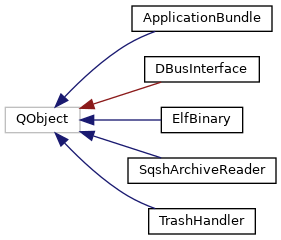
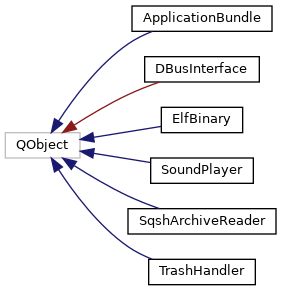
deploy: e1a4afd1eb60dbc64f07d55bf0ba9c38c1e31a32

Changed region(s): [[0.0, 0.0, 0.9964, 0.9917], [0.3416, 0.5833, 0.4555, 0.6417], [0.3986, 0.3792, 0.484, 0.4083]]

diff --git a/classSoundPlayer.html b/classSoundPlayer.html
@@ -5,7 +5,7 @@
 <meta http-equiv="X-UA-Compatible" content="IE=9"/>
 <meta name="generator" content="Doxygen 1.9.1"/>
 <meta name="viewport" content="width=device-width, initial-scale=1"/>
-<title>Filer: Class Index</title>
+<title>Filer: SoundPlayer Class Reference</title>
 <link href="tabs.css" rel="stylesheet" type="text/css"/>
 <script type="text/javascript" src="jquery.js"></script>
 <script type="text/javascript" src="dynsections.js"></script>
@@ -45,7 +45,6 @@ $(function() {
 });
 /* @license-end */</script>
 <div id="main-nav"></div>
-</div><!-- top -->
 <!-- window showing the filter options -->
 <div id="MSearchSelectWindow"
      onmouseover="return searchBox.OnSearchSelectShow()"
@@ -60,38 +59,51 @@ $(function() {
 </iframe>
 </div>
 
+</div><!-- top -->
 <div class="header">
+  <div class="summary">
+<a href="#pub-methods">Public Member Functions</a> &#124;
+<a href="#pub-static-methods">Static Public Member Functions</a> &#124;
+<a href="classSoundPlayer-members.html">List of all members</a>  </div>
   <div class="headertitle">
-<div class="title">Class Index</div>  </div>
+<div class="title">SoundPlayer Class Reference</div>  </div>
 </div><!--header-->
 <div class="contents">
-<div class="qindex"><a class="qindex" href="#letter_A">A</a>&#160;|&#160;<a class="qindex" href="#letter_C">C</a>&#160;|&#160;<a class="qindex" href="#letter_D">D</a>&#160;|&#160;<a class="qindex" href="#letter_E">E</a>&#160;|&#160;<a class="qindex" href="#letter_F">F</a>&#160;|&#160;<a class="qindex" href="#letter_L">L</a>&#160;|&#160;<a class="qindex" href="#letter_S">S</a>&#160;|&#160;<a class="qindex" href="#letter_T">T</a></div>
-<div class="classindex">
-<dl class="classindex even">
-<dt class="alphachar"><a name="letter_A">A</a></dt>
-<dd><a class="el" href="classApplicationBundle.html">ApplicationBundle</a></dd></dl>
-<dl class="classindex odd">
-<dt class="alphachar"><a name="letter_C">C</a></dt>
-<dd><a class="el" href="classCombinedIconCreator.html">CombinedIconCreator</a></dd><dd><a class="el" href="classCustomFileIconProvider.html">CustomFileIconProvider</a></dd><dd><a class="el" href="classCustomFileSystemModel.html">CustomFileSystemModel</a></dd><dd><a class="el" href="classCustomItemDelegate.html">CustomItemDelegate</a></dd><dd><a class="el" href="classCustomListView.html">CustomListView</a></dd></dl>
-<dl class="classindex even">
-<dt class="alphachar"><a name="letter_D">D</a></dt>
-<dd><a class="el" href="classDBusInterface.html">DBusInterface</a></dd><dd><a class="el" href="classDesktopFile.html">DesktopFile</a></dd></dl>
-<dl class="classindex odd">
-<dt class="alphachar"><a name="letter_E">E</a></dt>
-<dd><a class="el" href="classElfBinary.html">ElfBinary</a></dd><dd><a class="el" href="classElfSizeCalculator.html">ElfSizeCalculator</a></dd><dd><a class="el" href="classExtendedAttributes.html">ExtendedAttributes</a></dd></dl>
-<dl class="classindex even">
-<dt class="alphachar"><a name="letter_F">F</a></dt>
-<dd><a class="el" href="classFileManager.html">FileManager</a></dd><dd><a class="el" href="classFileManagerMainWindow.html">FileManagerMainWindow</a></dd></dl>
-<dl class="classindex odd">
-<dt class="alphachar"><a name="letter_L">L</a></dt>
-<dd><a class="el" href="classLaunchDB.html">LaunchDB</a></dd></dl>
-<dl class="classindex even">
-<dt class="alphachar"><a name="letter_S">S</a></dt>
-<dd><a class="el" href="classSoundPlayer.html">SoundPlayer</a></dd><dd><a class="el" href="classSqshArchiveReader.html">SqshArchiveReader</a></dd></dl>
-<dl class="classindex odd">
-<dt class="alphachar"><a name="letter_T">T</a></dt>
-<dd><a class="el" href="classTrashHandler.html">TrashHandler</a></dd></dl>
-</div>
+<div class="dynheader">
+Inheritance diagram for SoundPlayer:</div>
+<div class="dyncontent">
+<div class="center"><img src="classSoundPlayer__inherit__graph.png" border="0" usemap="#aSoundPlayer_inherit__map" alt="Inheritance graph"/></div>
+<map name="aSoundPlayer_inherit__map" id="aSoundPlayer_inherit__map">
+<area shape="rect" title=" " alt="" coords="5,80,108,107"/>
+<area shape="rect" title=" " alt="" coords="19,5,94,32"/>
+</map>
+<center><span class="legend">[<a href="graph_legend.html">legend</a>]</span></center></div>
+<div class="dynheader">
+Collaboration diagram for SoundPlayer:</div>
+<div class="dyncontent">
+<div class="center"><img src="classSoundPlayer__coll__graph.png" border="0" usemap="#aSoundPlayer_coll__map" alt="Collaboration graph"/></div>
+<map name="aSoundPlayer_coll__map" id="aSoundPlayer_coll__map">
+<area shape="rect" title=" " alt="" coords="5,80,108,107"/>
+<area shape="rect" title=" " alt="" coords="19,5,94,32"/>
+</map>
+<center><span class="legend">[<a href="graph_legend.html">legend</a>]</span></center></div>
+<table class="memberdecls">
+<tr class="heading"><td colspan="2"><h2 class="groupheader"><a name="pub-methods"></a>
+Public Member Functions</h2></td></tr>
+<tr class="memitem:a590cf747854ce61a26d0903256ee9bb9"><td class="memItemLeft" align="right" valign="top"><a id="a590cf747854ce61a26d0903256ee9bb9"></a>
+&#160;</td><td class="memItemRight" valign="bottom"><b>SoundPlayer</b> (QObject *parent=nullptr)</td></tr>
+<tr class="separator:a590cf747854ce61a26d0903256ee9bb9"><td class="memSeparator" colspan="2">&#160;</td></tr>
+</table><table class="memberdecls">
+<tr class="heading"><td colspan="2"><h2 class="groupheader"><a name="pub-static-methods"></a>
+Static Public Member Functions</h2></td></tr>
+<tr class="memitem:a4993ff7a7b3c26f65edc117e5f306f32"><td class="memItemLeft" align="right" valign="top"><a id="a4993ff7a7b3c26f65edc117e5f306f32"></a>
+static void&#160;</td><td class="memItemRight" valign="bottom"><b>playSound</b> (const QString &amp;filename)</td></tr>
+<tr class="separator:a4993ff7a7b3c26f65edc117e5f306f32"><td class="memSeparator" colspan="2">&#160;</td></tr>
+</table>
+<hr/>The documentation for this class was generated from the following files:<ul>
+<li><a class="el" href="SoundPlayer_8h_source.html">SoundPlayer.h</a></li>
+<li>SoundPlayer.cpp</li>
+</ul>
 </div><!-- contents -->
 <!-- start footer part -->
 <hr class="footer"/><address class="footer"><small>

diff --git a/SoundPlayer_8h_source.html b/SoundPlayer_8h_source.html
@@ -1,0 +1,95 @@
+<!DOCTYPE html PUBLIC "-//W3C//DTD XHTML 1.0 Transitional//EN" "https://www.w3.org/TR/xhtml1/DTD/xhtml1-transitional.dtd">
+<html xmlns="http://www.w3.org/1999/xhtml">
+<head>
+<meta http-equiv="Content-Type" content="text/xhtml;charset=UTF-8"/>
+<meta http-equiv="X-UA-Compatible" content="IE=9"/>
+<meta name="generator" content="Doxygen 1.9.1"/>
+<meta name="viewport" content="width=device-width, initial-scale=1"/>
+<title>Filer: SoundPlayer.h Source File</title>
+<link href="tabs.css" rel="stylesheet" type="text/css"/>
+<script type="text/javascript" src="jquery.js"></script>
+<script type="text/javascript" src="dynsections.js"></script>
+<link href="search/search.css" rel="stylesheet" type="text/css"/>
+<script type="text/javascript" src="search/searchdata.js"></script>
+<script type="text/javascript" src="search/search.js"></script>
+<link href="doxygen.css" rel="stylesheet" type="text/css" />
+</head>
+<body>
+<div id="top"><!-- do not remove this div, it is closed by doxygen! -->
+<div id="titlearea">
+<table cellspacing="0" cellpadding="0">
+ <tbody>
+ <tr style="height: 56px;">
+  <td id="projectalign" style="padding-left: 0.5em;">
+   <div id="projectname">Filer
+   </div>
+  </td>
+ </tr>
+ </tbody>
+</table>
+</div>
+<!-- end header part -->
+<!-- Generated by Doxygen 1.9.1 -->
+<script type="text/javascript">
+/* @license magnet:?xt=urn:btih:cf05388f2679ee054f2beb29a391d25f4e673ac3&amp;dn=gpl-2.0.txt GPL-v2 */
+var searchBox = new SearchBox("searchBox", "search",false,'Search','.html');
+/* @license-end */
+</script>
+<script type="text/javascript" src="menudata.js"></script>
+<script type="text/javascript" src="menu.js"></script>
+<script type="text/javascript">
+/* @license magnet:?xt=urn:btih:cf05388f2679ee054f2beb29a391d25f4e673ac3&amp;dn=gpl-2.0.txt GPL-v2 */
+$(function() {
+  initMenu('',true,false,'search.php','Search');
+  $(document).ready(function() { init_search(); });
+});
+/* @license-end */</script>
+<div id="main-nav"></div>
+</div><!-- top -->
+<!-- window showing the filter options -->
+<div id="MSearchSelectWindow"
+     onmouseover="return searchBox.OnSearchSelectShow()"
+     onmouseout="return searchBox.OnSearchSelectHide()"
+     onkeydown="return searchBox.OnSearchSelectKey(event)">
+</div>
+
+<!-- iframe showing the search results (closed by default) -->
+<div id="MSearchResultsWindow">
+<iframe src="javascript:void(0)" frameborder="0" 
+        name="MSearchResults" id="MSearchResults">
+</iframe>
+</div>
+
+<div class="header">
+  <div class="headertitle">
+<div class="title">SoundPlayer.h</div>  </div>
+</div><!--header-->
+<div class="contents">
+<div class="fragment"><div class="line"><a name="l00001"></a><span class="lineno">    1</span>&#160;<span class="preprocessor">#ifndef SOUNDPLAYER_H</span></div>
+<div class="line"><a name="l00002"></a><span class="lineno">    2</span>&#160;<span class="preprocessor">#define SOUNDPLAYER_H</span></div>
+<div class="line"><a name="l00003"></a><span class="lineno">    3</span>&#160; </div>
+<div class="line"><a name="l00004"></a><span class="lineno">    4</span>&#160;<span class="preprocessor">#include &lt;QObject&gt;</span></div>
+<div class="line"><a name="l00005"></a><span class="lineno">    5</span>&#160;<span class="preprocessor">#include &lt;QMediaPlayer&gt;</span></div>
+<div class="line"><a name="l00006"></a><span class="lineno">    6</span>&#160; </div>
+<div class="line"><a name="l00007"></a><span class="lineno"><a class="line" href="classSoundPlayer.html">    7</a></span>&#160;<span class="keyword">class </span><a class="code" href="classSoundPlayer.html">SoundPlayer</a> : <span class="keyword">public</span> QObject</div>
+<div class="line"><a name="l00008"></a><span class="lineno">    8</span>&#160;{</div>
+<div class="line"><a name="l00009"></a><span class="lineno">    9</span>&#160;Q_OBJECT</div>
+<div class="line"><a name="l00010"></a><span class="lineno">   10</span>&#160; </div>
+<div class="line"><a name="l00011"></a><span class="lineno">   11</span>&#160;<span class="keyword">public</span>:</div>
+<div class="line"><a name="l00012"></a><span class="lineno">   12</span>&#160;    <span class="keyword">explicit</span> <a class="code" href="classSoundPlayer.html">SoundPlayer</a>(QObject *parent = <span class="keyword">nullptr</span>);</div>
+<div class="line"><a name="l00013"></a><span class="lineno">   13</span>&#160; </div>
+<div class="line"><a name="l00014"></a><span class="lineno">   14</span>&#160;    <span class="comment">// Note: This can be called without needing an instance of SoundPlayer</span></div>
+<div class="line"><a name="l00015"></a><span class="lineno">   15</span>&#160;    <span class="keyword">static</span> <span class="keywordtype">void</span> playSound(<span class="keyword">const</span> QString &amp;filename);</div>
+<div class="line"><a name="l00016"></a><span class="lineno">   16</span>&#160; </div>
+<div class="line"><a name="l00017"></a><span class="lineno">   17</span>&#160; </div>
+<div class="line"><a name="l00018"></a><span class="lineno">   18</span>&#160;};</div>
+<div class="line"><a name="l00019"></a><span class="lineno">   19</span>&#160; </div>
+<div class="line"><a name="l00020"></a><span class="lineno">   20</span>&#160;<span class="preprocessor">#endif </span><span class="comment">// SOUNDPLAYER_H</span></div>
+<div class="ttc" id="aclassSoundPlayer_html"><div class="ttname"><a href="classSoundPlayer.html">SoundPlayer</a></div><div class="ttdef"><b>Definition:</b> SoundPlayer.h:8</div></div>
+</div><!-- fragment --></div><!-- contents -->
+<!-- start footer part -->
+<hr class="footer"/><address class="footer"><small>
+Generated by&#160;<a href="https://www.doxygen.org/index.html"><img class="footer" src="doxygen.svg" width="104" height="31" alt="doxygen"/></a> 1.9.1
+</small></address>
+</body>
+</html>

diff --git a/classSoundPlayer-members.html b/classSoundPlayer-members.html
@@ -5,7 +5,7 @@
 <meta http-equiv="X-UA-Compatible" content="IE=9"/>
 <meta name="generator" content="Doxygen 1.9.1"/>
 <meta name="viewport" content="width=device-width, initial-scale=1"/>
-<title>Filer: Class Index</title>
+<title>Filer: Member List</title>
 <link href="tabs.css" rel="stylesheet" type="text/css"/>
 <script type="text/javascript" src="jquery.js"></script>
 <script type="text/javascript" src="dynsections.js"></script>
@@ -45,7 +45,6 @@ $(function() {
 });
 /* @license-end */</script>
 <div id="main-nav"></div>
-</div><!-- top -->
 <!-- window showing the filter options -->
 <div id="MSearchSelectWindow"
      onmouseover="return searchBox.OnSearchSelectShow()"
@@ -60,39 +59,18 @@ $(function() {
 </iframe>
 </div>
 
+</div><!-- top -->
 <div class="header">
   <div class="headertitle">
-<div class="title">Class Index</div>  </div>
+<div class="title">SoundPlayer Member List</div>  </div>
 </div><!--header-->
 <div class="contents">
-<div class="qindex"><a class="qindex" href="#letter_A">A</a>&#160;|&#160;<a class="qindex" href="#letter_C">C</a>&#160;|&#160;<a class="qindex" href="#letter_D">D</a>&#160;|&#160;<a class="qindex" href="#letter_E">E</a>&#160;|&#160;<a class="qindex" href="#letter_F">F</a>&#160;|&#160;<a class="qindex" href="#letter_L">L</a>&#160;|&#160;<a class="qindex" href="#letter_S">S</a>&#160;|&#160;<a class="qindex" href="#letter_T">T</a></div>
-<div class="classindex">
-<dl class="classindex even">
-<dt class="alphachar"><a name="letter_A">A</a></dt>
-<dd><a class="el" href="classApplicationBundle.html">ApplicationBundle</a></dd></dl>
-<dl class="classindex odd">
-<dt class="alphachar"><a name="letter_C">C</a></dt>
-<dd><a class="el" href="classCombinedIconCreator.html">CombinedIconCreator</a></dd><dd><a class="el" href="classCustomFileIconProvider.html">CustomFileIconProvider</a></dd><dd><a class="el" href="classCustomFileSystemModel.html">CustomFileSystemModel</a></dd><dd><a class="el" href="classCustomItemDelegate.html">CustomItemDelegate</a></dd><dd><a class="el" href="classCustomListView.html">CustomListView</a></dd></dl>
-<dl class="classindex even">
-<dt class="alphachar"><a name="letter_D">D</a></dt>
-<dd><a class="el" href="classDBusInterface.html">DBusInterface</a></dd><dd><a class="el" href="classDesktopFile.html">DesktopFile</a></dd></dl>
-<dl class="classindex odd">
-<dt class="alphachar"><a name="letter_E">E</a></dt>
-<dd><a class="el" href="classElfBinary.html">ElfBinary</a></dd><dd><a class="el" href="classElfSizeCalculator.html">ElfSizeCalculator</a></dd><dd><a class="el" href="classExtendedAttributes.html">ExtendedAttributes</a></dd></dl>
-<dl class="classindex even">
-<dt class="alphachar"><a name="letter_F">F</a></dt>
-<dd><a class="el" href="classFileManager.html">FileManager</a></dd><dd><a class="el" href="classFileManagerMainWindow.html">FileManagerMainWindow</a></dd></dl>
-<dl class="classindex odd">
-<dt class="alphachar"><a name="letter_L">L</a></dt>
-<dd><a class="el" href="classLaunchDB.html">LaunchDB</a></dd></dl>
-<dl class="classindex even">
-<dt class="alphachar"><a name="letter_S">S</a></dt>
-<dd><a class="el" href="classSoundPlayer.html">SoundPlayer</a></dd><dd><a class="el" href="classSqshArchiveReader.html">SqshArchiveReader</a></dd></dl>
-<dl class="classindex odd">
-<dt class="alphachar"><a name="letter_T">T</a></dt>
-<dd><a class="el" href="classTrashHandler.html">TrashHandler</a></dd></dl>
-</div>
-</div><!-- contents -->
+
+<p>This is the complete list of members for <a class="el" href="classSoundPlayer.html">SoundPlayer</a>, including all inherited members.</p>
+<table class="directory">
+  <tr bgcolor="#f0f0f0" class="even"><td class="entry"><b>playSound</b>(const QString &amp;filename) (defined in <a class="el" href="classSoundPlayer.html">SoundPlayer</a>)</td><td class="entry"><a class="el" href="classSoundPlayer.html">SoundPlayer</a></td><td class="entry"><span class="mlabel">static</span></td></tr>
+  <tr bgcolor="#f0f0f0"><td class="entry"><b>SoundPlayer</b>(QObject *parent=nullptr) (defined in <a class="el" href="classSoundPlayer.html">SoundPlayer</a>)</td><td class="entry"><a class="el" href="classSoundPlayer.html">SoundPlayer</a></td><td class="entry"><span class="mlabel">explicit</span></td></tr>
+</table></div><!-- contents -->
 <!-- start footer part -->
 <hr class="footer"/><address class="footer"><small>
 Generated by&#160;<a href="https://www.doxygen.org/index.html"><img class="footer" src="doxygen.svg" width="104" height="31" alt="doxygen"/></a> 1.9.1

diff --git a/hierarchy.html b/hierarchy.html
@@ -88,10 +88,11 @@ This inheritance list is sorted roughly, but not completely, alphabetically:</di
 <tr id="row_10_0_" class="even"><td class="entry"><span style="width:32px;display:inline-block;">&#160;</span><span class="icona"><span class="icon">C</span></span><a class="el" href="classApplicationBundle.html" target="_self">ApplicationBundle</a></td><td class="desc"></td></tr>
 <tr id="row_10_1_"><td class="entry"><span style="width:32px;display:inline-block;">&#160;</span><span class="icona"><span class="icon">C</span></span><a class="el" href="classDBusInterface.html" target="_self">DBusInterface</a></td><td class="desc"></td></tr>
 <tr id="row_10_2_" class="even"><td class="entry"><span style="width:32px;display:inline-block;">&#160;</span><span class="icona"><span class="icon">C</span></span><a class="el" href="classElfBinary.html" target="_self">ElfBinary</a></td><td class="desc">Functionality to read information from ELF binary files </td></tr>
-<tr id="row_10_3_"><td class="entry"><span style="width:32px;display:inline-block;">&#160;</span><span class="icona"><span class="icon">C</span></span><a class="el" href="classSqshArchiveReader.html" target="_self">SqshArchiveReader</a></td><td class="desc">Functionality to read files from a SquashFS archive </td></tr>
-<tr id="row_10_4_" class="even"><td class="entry"><span style="width:32px;display:inline-block;">&#160;</span><span class="icona"><span class="icon">C</span></span><a class="el" href="classTrashHandler.html" target="_self">TrashHandler</a></td><td class="desc"></td></tr>
-<tr id="row_11_"><td class="entry"><span style="width:0px;display:inline-block;">&#160;</span><span id="arr_11_" class="arrow" onclick="toggleFolder('11_')">&#9660;</span><span class="icona"><span class="icon">C</span></span><b>QStyledItemDelegate</b></td><td class="desc"></td></tr>
-<tr id="row_11_0_" class="even"><td class="entry"><span style="width:32px;display:inline-block;">&#160;</span><span class="icona"><span class="icon">C</span></span><a class="el" href="classCustomItemDelegate.html" target="_self">CustomItemDelegate</a></td><td class="desc"></td></tr>
+<tr id="row_10_3_"><td class="entry"><span style="width:32px;display:inline-block;">&#160;</span><span class="icona"><span class="icon">C</span></span><a class="el" href="classSoundPlayer.html" target="_self">SoundPlayer</a></td><td class="desc"></td></tr>
+<tr id="row_10_4_" class="even"><td class="entry"><span style="width:32px;display:inline-block;">&#160;</span><span class="icona"><span class="icon">C</span></span><a class="el" href="classSqshArchiveReader.html" target="_self">SqshArchiveReader</a></td><td class="desc">Functionality to read files from a SquashFS archive </td></tr>
+<tr id="row_10_5_"><td class="entry"><span style="width:32px;display:inline-block;">&#160;</span><span class="icona"><span class="icon">C</span></span><a class="el" href="classTrashHandler.html" target="_self">TrashHandler</a></td><td class="desc"></td></tr>
+<tr id="row_11_" class="even"><td class="entry"><span style="width:0px;display:inline-block;">&#160;</span><span id="arr_11_" class="arrow" onclick="toggleFolder('11_')">&#9660;</span><span class="icona"><span class="icon">C</span></span><b>QStyledItemDelegate</b></td><td class="desc"></td></tr>
+<tr id="row_11_0_"><td class="entry"><span style="width:32px;display:inline-block;">&#160;</span><span class="icona"><span class="icon">C</span></span><a class="el" href="classCustomItemDelegate.html" target="_self">CustomItemDelegate</a></td><td class="desc"></td></tr>
 </table>
 </div><!-- directory -->
 </div><!-- contents -->

diff --git a/TrashHandler_8h_source.html b/TrashHandler_8h_source.html
@@ -82,7 +82,7 @@ $(function() {
 <div class="line"><a name="l00015"></a><span class="lineno">   15</span>&#160;    <a class="code" href="classTrashHandler.html">TrashHandler</a>(QWidget *parent = <span class="keyword">nullptr</span>);</div>
 <div class="line"><a name="l00016"></a><span class="lineno">   16</span>&#160; </div>
 <div class="line"><a name="l00017"></a><span class="lineno">   17</span>&#160;    <span class="comment">// Move a file/directory to the &quot;Trash&quot; (Virtual Trash)</span></div>
-<div class="line"><a name="l00018"></a><span class="lineno">   18</span>&#160;    <span class="keywordtype">bool</span> moveToTrash(<span class="keyword">const</span> QString&amp; path);</div>
+<div class="line"><a name="l00018"></a><span class="lineno">   18</span>&#160;    <span class="keywordtype">void</span> moveToTrash(<span class="keyword">const</span> QStringList&amp; paths);</div>
 <div class="line"><a name="l00019"></a><span class="lineno">   19</span>&#160; </div>
 <div class="line"><a name="l00020"></a><span class="lineno">   20</span>&#160;    <span class="comment">// Empty the &quot;Trash&quot; (Delete all files and directories in the Virtual Trash)</span></div>
 <div class="line"><a name="l00021"></a><span class="lineno">   21</span>&#160;    <span class="keywordtype">bool</span> emptyTrash();</div>
@@ -93,9 +93,10 @@ $(function() {
 <div class="line"><a name="l00026"></a><span class="lineno">   26</span>&#160;<span class="keyword">private</span>:</div>
 <div class="line"><a name="l00027"></a><span class="lineno">   27</span>&#160;    QString m_trashPath;</div>
 <div class="line"><a name="l00028"></a><span class="lineno">   28</span>&#160;    QWidget *m_parent;</div>
-<div class="line"><a name="l00029"></a><span class="lineno">   29</span>&#160;};</div>
-<div class="line"><a name="l00030"></a><span class="lineno">   30</span>&#160; </div>
-<div class="line"><a name="l00031"></a><span class="lineno">   31</span>&#160;<span class="preprocessor">#endif </span><span class="comment">// TRASHHANDLER_H</span></div>
+<div class="line"><a name="l00029"></a><span class="lineno">   29</span>&#160;    <span class="keywordtype">bool</span> m_dialogShown = <span class="keyword">false</span>;</div>
+<div class="line"><a name="l00030"></a><span class="lineno">   30</span>&#160;};</div>
+<div class="line"><a name="l00031"></a><span class="lineno">   31</span>&#160; </div>
+<div class="line"><a name="l00032"></a><span class="lineno">   32</span>&#160;<span class="preprocessor">#endif </span><span class="comment">// TRASHHANDLER_H</span></div>
 <div class="ttc" id="aclassTrashHandler_html"><div class="ttname"><a href="classTrashHandler.html">TrashHandler</a></div><div class="ttdef"><b>Definition:</b> TrashHandler.h:12</div></div>
 </div><!-- fragment --></div><!-- contents -->
 <!-- start footer part -->

diff --git a/annotated.html b/annotated.html
@@ -81,8 +81,9 @@ $(function() {
 <tr id="row_11_"><td class="entry"><span style="width:16px;display:inline-block;">&#160;</span><span class="icona"><span class="icon">C</span></span><a class="el" href="classFileManager.html" target="_self">FileManager</a></td><td class="desc"></td></tr>
 <tr id="row_12_" class="even"><td class="entry"><span style="width:16px;display:inline-block;">&#160;</span><span class="icona"><span class="icon">C</span></span><a class="el" href="classFileManagerMainWindow.html" target="_self">FileManagerMainWindow</a></td><td class="desc"></td></tr>
 <tr id="row_13_"><td class="entry"><span style="width:16px;display:inline-block;">&#160;</span><span class="icona"><span class="icon">C</span></span><a class="el" href="classLaunchDB.html" target="_self">LaunchDB</a></td><td class="desc">Functionality to retrieve the default application associated with a file </td></tr>
-<tr id="row_14_" class="even"><td class="entry"><span style="width:16px;display:inline-block;">&#160;</span><span class="icona"><span class="icon">C</span></span><a class="el" href="classSqshArchiveReader.html" target="_self">SqshArchiveReader</a></td><td class="desc">Functionality to read files from a SquashFS archive </td></tr>
-<tr id="row_15_"><td class="entry"><span style="width:16px;display:inline-block;">&#160;</span><span class="icona"><span class="icon">C</span></span><a class="el" href="classTrashHandler.html" target="_self">TrashHandler</a></td><td class="desc"></td></tr>
+<tr id="row_14_" class="even"><td class="entry"><span style="width:16px;display:inline-block;">&#160;</span><span class="icona"><span class="icon">C</span></span><a class="el" href="classSoundPlayer.html" target="_self">SoundPlayer</a></td><td class="desc"></td></tr>
+<tr id="row_15_"><td class="entry"><span style="width:16px;display:inline-block;">&#160;</span><span class="icona"><span class="icon">C</span></span><a class="el" href="classSqshArchiveReader.html" target="_self">SqshArchiveReader</a></td><td class="desc">Functionality to read files from a SquashFS archive </td></tr>
+<tr id="row_16_" class="even"><td class="entry"><span style="width:16px;display:inline-block;">&#160;</span><span class="icona"><span class="icon">C</span></span><a class="el" href="classTrashHandler.html" target="_self">TrashHandler</a></td><td class="desc"></td></tr>
 </table>
 </div><!-- directory -->
 </div><!-- contents -->

diff --git a/files.html b/files.html
@@ -81,8 +81,9 @@ $(function() {
 <tr id="row_11_"><td class="entry"><span style="width:16px;display:inline-block;">&#160;</span><a href="FileManager_8h_source.html"><span class="icondoc"></span></a><b>FileManager.h</b></td><td class="desc"></td></tr>
 <tr id="row_12_" class="even"><td class="entry"><span style="width:16px;display:inline-block;">&#160;</span><a href="FileManagerMainWindow_8h_source.html"><span class="icondoc"></span></a><b>FileManagerMainWindow.h</b></td><td class="desc"></td></tr>
 <tr id="row_13_"><td class="entry"><span style="width:16px;display:inline-block;">&#160;</span><a href="LaunchDB_8h_source.html"><span class="icondoc"></span></a><b>LaunchDB.h</b></td><td class="desc"></td></tr>
-<tr id="row_14_" class="even"><td class="entry"><span style="width:16px;display:inline-block;">&#160;</span><a href="SqshArchiveReader_8h_source.html"><span class="icondoc"></span></a><b>SqshArchiveReader.h</b></td><td class="desc"></td></tr>
-<tr id="row_15_"><td class="entry"><span style="width:16px;display:inline-block;">&#160;</span><a href="TrashHandler_8h_source.html"><span class="icondoc"></span></a><b>TrashHandler.h</b></td><td class="desc"></td></tr>
+<tr id="row_14_" class="even"><td class="entry"><span style="width:16px;display:inline-block;">&#160;</span><a href="SoundPlayer_8h_source.html"><span class="icondoc"></span></a><b>SoundPlayer.h</b></td><td class="desc"></td></tr>
+<tr id="row_15_"><td class="entry"><span style="width:16px;display:inline-block;">&#160;</span><a href="SqshArchiveReader_8h_source.html"><span class="icondoc"></span></a><b>SqshArchiveReader.h</b></td><td class="desc"></td></tr>
+<tr id="row_16_" class="even"><td class="entry"><span style="width:16px;display:inline-block;">&#160;</span><a href="TrashHandler_8h_source.html"><span class="icondoc"></span></a><b>TrashHandler.h</b></td><td class="desc"></td></tr>
 </table>
 </div><!-- directory -->
 </div><!-- contents -->

diff --git a/classTrashHandler.html b/classTrashHandler.html
@@ -92,9 +92,9 @@ Public Member Functions</h2></td></tr>
 <tr class="memitem:a893bc441acaf7d135e4d6aac07fcae07"><td class="memItemLeft" align="right" valign="top"><a id="a893bc441acaf7d135e4d6aac07fcae07"></a>
 &#160;</td><td class="memItemRight" valign="bottom"><b>TrashHandler</b> (QWidget *parent=nullptr)</td></tr>
 <tr class="separator:a893bc441acaf7d135e4d6aac07fcae07"><td class="memSeparator" colspan="2">&#160;</td></tr>
-<tr class="memitem:a39a80e89f3fc4c204e2a8902a547efaa"><td class="memItemLeft" align="right" valign="top"><a id="a39a80e89f3fc4c204e2a8902a547efaa"></a>
-bool&#160;</td><td class="memItemRight" valign="bottom"><b>moveToTrash</b> (const QString &amp;path)</td></tr>
-<tr class="separator:a39a80e89f3fc4c204e2a8902a547efaa"><td class="memSeparator" colspan="2">&#160;</td></tr>
+<tr class="memitem:afc29eb8a2534d085b73eb45fe603f2ef"><td class="memItemLeft" align="right" valign="top"><a id="afc29eb8a2534d085b73eb45fe603f2ef"></a>
+void&#160;</td><td class="memItemRight" valign="bottom"><b>moveToTrash</b> (const QStringList &amp;paths)</td></tr>
+<tr class="separator:afc29eb8a2534d085b73eb45fe603f2ef"><td class="memSeparator" colspan="2">&#160;</td></tr>
 <tr class="memitem:a0fd0f323b9cb82f0fea42eec9014c060"><td class="memItemLeft" align="right" valign="top"><a id="a0fd0f323b9cb82f0fea42eec9014c060"></a>
 bool&#160;</td><td class="memItemRight" valign="bottom"><b>emptyTrash</b> ()</td></tr>
 <tr class="separator:a0fd0f323b9cb82f0fea42eec9014c060"><td class="memSeparator" colspan="2">&#160;</td></tr>

diff --git a/classTrashHandler-members.html b/classTrashHandler-members.html
@@ -70,7 +70,7 @@ $(function() {
 <table class="directory">
   <tr bgcolor="#f0f0f0" class="even"><td class="entry"><b>emptyTrash</b>() (defined in <a class="el" href="classTrashHandler.html">TrashHandler</a>)</td><td class="entry"><a class="el" href="classTrashHandler.html">TrashHandler</a></td><td class="entry"></td></tr>
   <tr bgcolor="#f0f0f0"><td class="entry"><b>getTrashPath</b>() const (defined in <a class="el" href="classTrashHandler.html">TrashHandler</a>)</td><td class="entry"><a class="el" href="classTrashHandler.html">TrashHandler</a></td><td class="entry"></td></tr>
-  <tr bgcolor="#f0f0f0" class="even"><td class="entry"><b>moveToTrash</b>(const QString &amp;path) (defined in <a class="el" href="classTrashHandler.html">TrashHandler</a>)</td><td class="entry"><a class="el" href="classTrashHandler.html">TrashHandler</a></td><td class="entry"></td></tr>
+  <tr bgcolor="#f0f0f0" class="even"><td class="entry"><b>moveToTrash</b>(const QStringList &amp;paths) (defined in <a class="el" href="classTrashHandler.html">TrashHandler</a>)</td><td class="entry"><a class="el" href="classTrashHandler.html">TrashHandler</a></td><td class="entry"></td></tr>
   <tr bgcolor="#f0f0f0"><td class="entry"><b>TrashHandler</b>(QWidget *parent=nullptr) (defined in <a class="el" href="classTrashHandler.html">TrashHandler</a>)</td><td class="entry"><a class="el" href="classTrashHandler.html">TrashHandler</a></td><td class="entry"></td></tr>
 </table></div><!-- contents -->
 <!-- start footer part -->

diff --git a/inherits.html b/inherits.html
@@ -70,12 +70,13 @@ $(function() {
 </div><table border="0" cellspacing="10" cellpadding="0">
 <tr><td><img src="inherit_graph_0.png" border="0" usemap="#aApplicationBundle" alt=""/>
 <map name="aApplicationBundle" id="aApplicationBundle">
-<area shape="rect" title=" " alt="" coords="5,107,80,133"/>
+<area shape="rect" title=" " alt="" coords="5,132,80,159"/>
 <area shape="rect" href="classApplicationBundle.html" title=" " alt="" coords="132,5,272,32"/>
 <area shape="rect" href="classDBusInterface.html" title=" " alt="" coords="145,56,259,83"/>
 <area shape="rect" href="classElfBinary.html" title="The ElfBinary class provides functionality to read information from ELF binary files." alt="" coords="161,107,243,133"/>
-<area shape="rect" href="classSqshArchiveReader.html" title="The SqshArchiveReader class provides functionality to read files from a SquashFS archive." alt="" coords="128,157,276,184"/>
-<area shape="rect" href="classTrashHandler.html" title=" " alt="" coords="149,208,255,235"/>
+<area shape="rect" href="classSoundPlayer.html" title=" " alt="" coords="151,157,253,184"/>
+<area shape="rect" href="classSqshArchiveReader.html" title="The SqshArchiveReader class provides functionality to read files from a SquashFS archive." alt="" coords="128,208,276,235"/>
+<area shape="rect" href="classTrashHandler.html" title=" " alt="" coords="149,259,255,285"/>
 </map>
 </td></tr>
 <tr><td><img src="inherit_graph_1.png" border="0" usemap="#aCombinedIconCreator" alt=""/>

diff --git a/search/classes_1.js b/search/classes_1.js
@@ -1,8 +1,8 @@
 var searchData=
 [
-  ['combinediconcreator_23',['CombinedIconCreator',['../classCombinedIconCreator.html',1,'']]],
-  ['customfileiconprovider_24',['CustomFileIconProvider',['../classCustomFileIconProvider.html',1,'']]],
-  ['customfilesystemmodel_25',['CustomFileSystemModel',['../classCustomFileSystemModel.html',1,'']]],
-  ['customitemdelegate_26',['CustomItemDelegate',['../classCustomItemDelegate.html',1,'']]],
-  ['customlistview_27',['CustomListView',['../classCustomListView.html',1,'']]]
+  ['combinediconcreator_24',['CombinedIconCreator',['../classCombinedIconCreator.html',1,'']]],
+  ['customfileiconprovider_25',['CustomFileIconProvider',['../classCustomFileIconProvider.html',1,'']]],
+  ['customfilesystemmodel_26',['CustomFileSystemModel',['../classCustomFileSystemModel.html',1,'']]],
+  ['customitemdelegate_27',['CustomItemDelegate',['../classCustomItemDelegate.html',1,'']]],
+  ['customlistview_28',['CustomListView',['../classCustomListView.html',1,'']]]
 ];

diff --git a/search/functions_5.js b/search/functions_5.js
@@ -1,5 +1,5 @@
 var searchData=
 [
-  ['readfilefromarchive_43',['readFileFromArchive',['../classSqshArchiveReader.html#a3e80c89957e5f18a3c1adc67e480e347',1,'SqshArchiveReader']]],
-  ['readsqsharchive_44',['readSqshArchive',['../classSqshArchiveReader.html#a8e94ea1f5fe9dabc211910752847c4c7',1,'SqshArchiveReader']]]
+  ['readfilefromarchive_45',['readFileFromArchive',['../classSqshArchiveReader.html#a3e80c89957e5f18a3c1adc67e480e347',1,'SqshArchiveReader']]],
+  ['readsqsharchive_46',['readSqshArchive',['../classSqshArchiveReader.html#a8e94ea1f5fe9dabc211910752847c4c7',1,'SqshArchiveReader']]]
 ];
